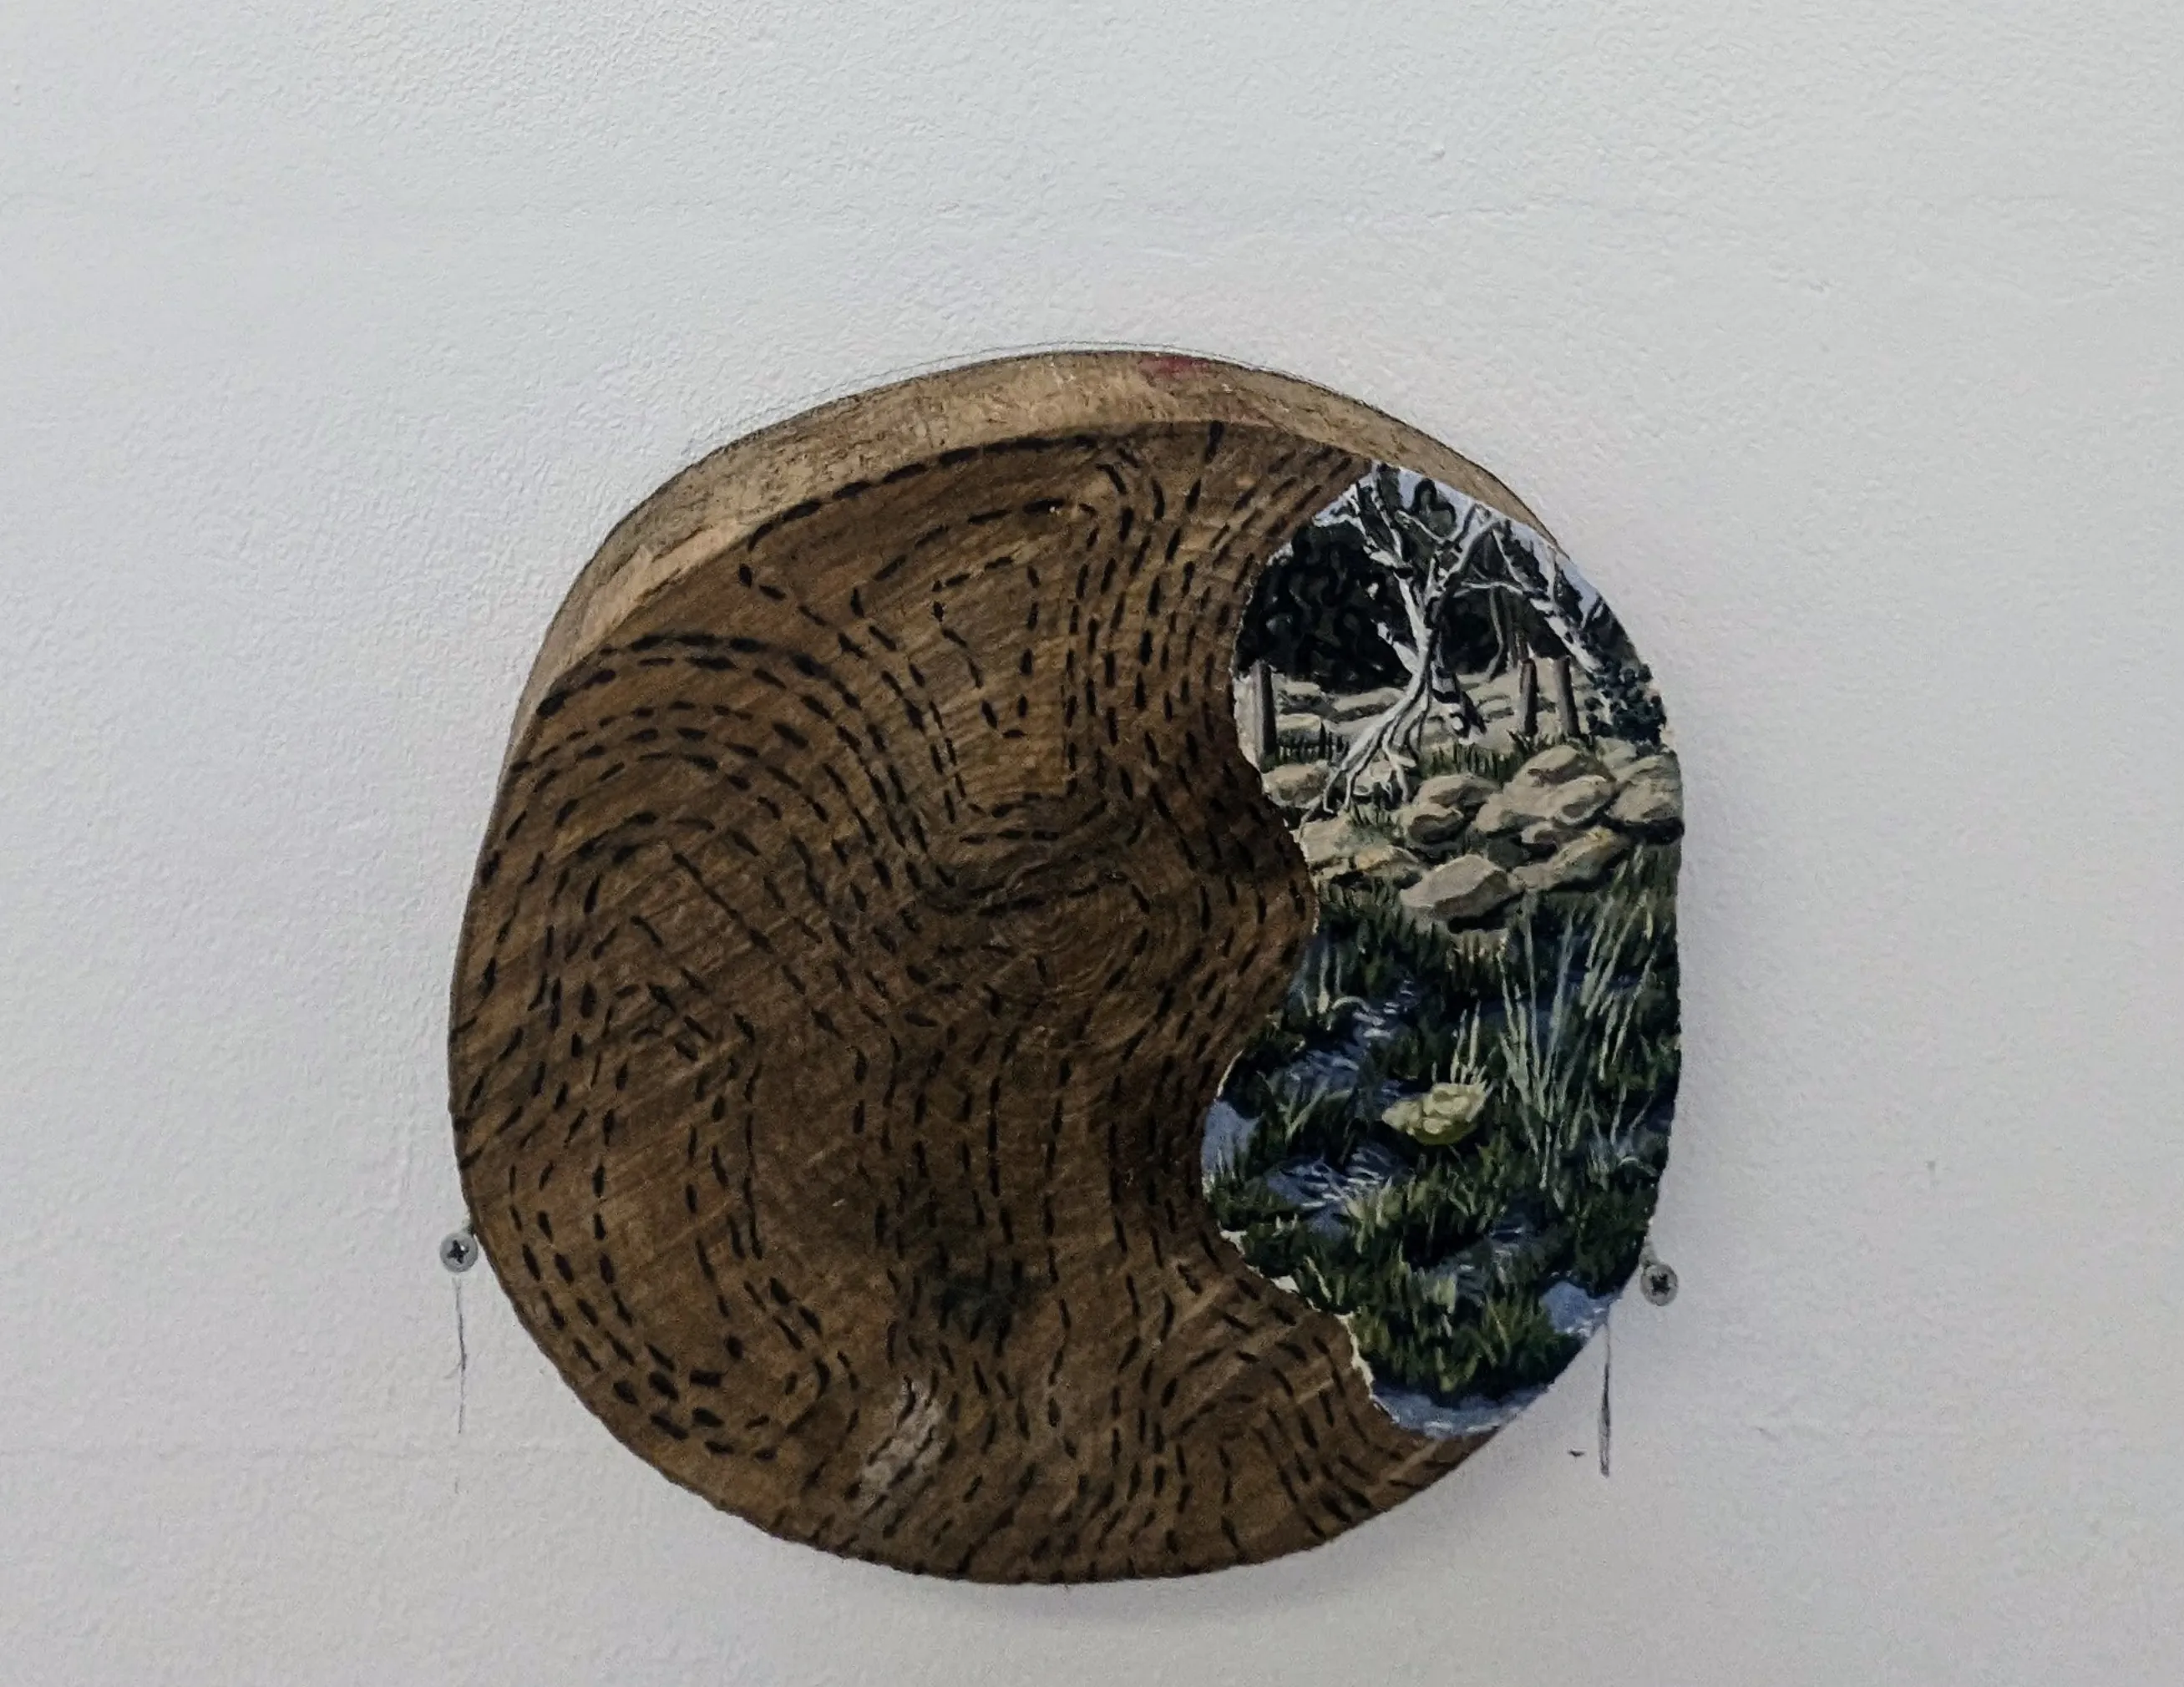
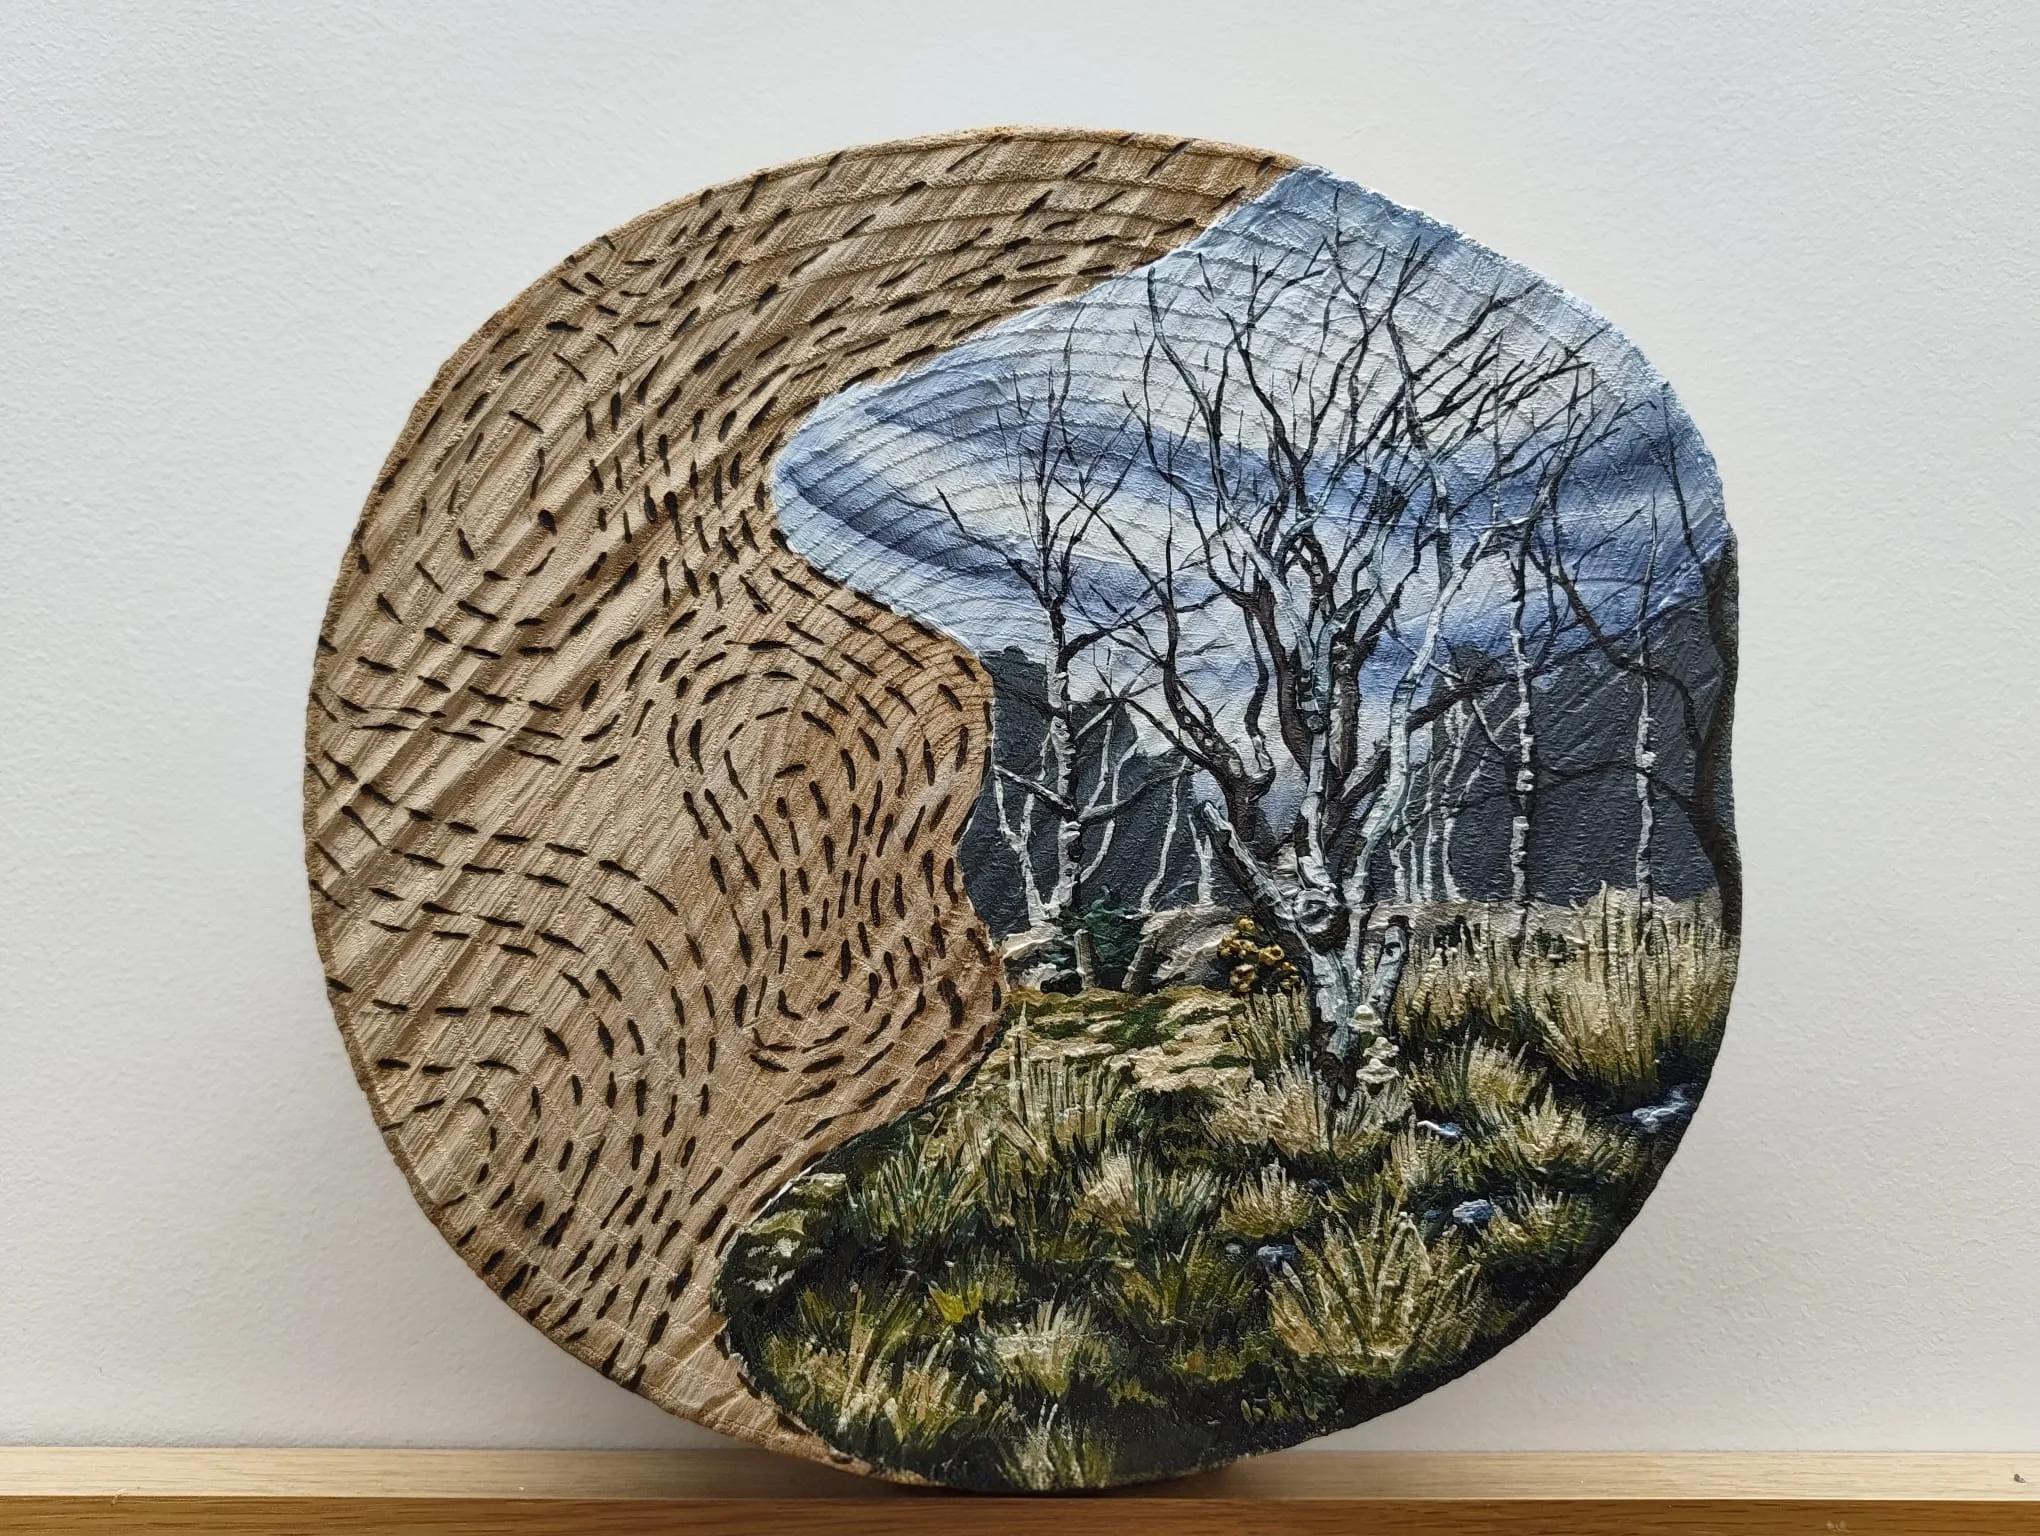
Document Topography exhibition and add new pieces
- Add Topography install photos and Facebook link to exhibition page
- Add four new artworks: canopy painting + three burnt/carved wood discs
- Replace Bridge and Bog Perspective with better straight-on photos
- Remove now-past "Exhibition This Friday" modal and badge
- Add top nav linking homepage and exhibition page
- Set page title to "Sorcha Hamilton"
- Ignore local scratch dirs; untrack .DS_Store

diff --git a/index.html b/index.html
@@ -3,7 +3,7 @@
 <head>
     <meta charset="UTF-8">
     <meta name="viewport" content="width=device-width, initial-scale=1.0">
-    <title>Art Gallery</title>
+    <title>Sorcha Hamilton</title>
     <style>
         * {
             margin: 0;
@@ -34,132 +34,31 @@
     margin-bottom: 2rem;  /* Adds space after each paragraph */
 }
 
-        .poster-modal {
-            position: fixed;
-            inset: 0;
-            background: rgba(20, 20, 20, 0.7);
-            backdrop-filter: blur(8px);
-            -webkit-backdrop-filter: blur(8px);
+        .topnav {
+            max-width: 1000px;
+            margin: 0 auto;
+            padding: 2rem 2rem 0;
             display: flex;
-            align-items: center;
-            justify-content: center;
-            z-index: 1000;
-            padding: 2rem;
-            opacity: 0;
-            pointer-events: none;
-            transition: opacity 0.5s ease;
+            justify-content: space-between;
+            align-items: baseline;
+            gap: 1rem;
         }
 
-        .poster-modal.open {
-            opacity: 1;
-            pointer-events: auto;
-        }
-
-        .poster-modal-content {
-            position: relative;
-            max-width: 520px;
-            width: 100%;
-            transform: scale(0.92) translateY(20px);
-            transition: transform 0.6s cubic-bezier(0.2, 0.8, 0.2, 1);
-        }
-
-        .poster-modal.open .poster-modal-content {
-            transform: scale(1) translateY(0);
-        }
-
-        .poster-modal-image-link {
-            display: block;
-            cursor: pointer;
-            transition: transform 0.3s ease, box-shadow 0.3s ease;
-        }
-
-        .poster-modal-image-link:hover {
-            transform: translateY(-3px);
-        }
-
-        .poster-modal-image {
-            width: 100%;
-            height: auto;
-            display: block;
-            box-shadow: 0 30px 80px rgba(0, 0, 0, 0.5);
-            border-radius: 2px;
-            transition: box-shadow 0.3s ease;
-        }
-
-        .poster-modal-image-link:hover .poster-modal-image {
-            box-shadow: 0 36px 90px rgba(0, 0, 0, 0.6);
-        }
-
-        .poster-modal-close {
-            position: absolute;
-            top: -2.5rem;
-            right: 0;
-            background: none;
-            border: none;
-            color: rgba(255, 255, 255, 0.85);
-            font-size: 1.5rem;
-            cursor: pointer;
-            padding: 0.25rem 0.75rem;
-            font-family: inherit;
-            letter-spacing: 0.05em;
+        .topnav a {
+            color: #666;
+            text-decoration: none;
+            font-size: 0.9rem;
+            letter-spacing: 0.02em;
             transition: color 0.2s ease;
         }
 
-        .poster-modal-close:hover {
-            color: #fff;
+        .topnav a:hover {
+            color: #000;
         }
 
-        .exhibition-badge {
-            position: fixed;
-            bottom: 1.75rem;
-            right: 1.75rem;
-            background: #f5efe4;
-            color: #2a2520;
-            text-decoration: none;
-            padding: 0.7rem 1.2rem 0.75rem;
-            border: 1px solid rgba(42, 37, 32, 0.2);
-            border-radius: 2px;
-            font-family: Georgia, 'Times New Roman', serif;
-            font-style: italic;
-            font-size: 1rem;
-            cursor: pointer;
-            box-shadow: 0 6px 20px rgba(42, 37, 32, 0.12);
-            z-index: 100;
-            opacity: 0;
-            transform: translateY(20px) rotate(-2.5deg);
-            transition: opacity 0.6s ease, transform 0.4s cubic-bezier(0.2, 0.8, 0.2, 1), box-shadow 0.3s ease;
-            display: inline-flex;
-            align-items: baseline;
-            gap: 0.5rem;
-        }
-
-        .exhibition-badge.visible {
-            opacity: 1;
-            transform: translateY(0) rotate(-2.5deg);
-        }
-
-        .exhibition-badge:hover {
-            transform: translateY(-3px) rotate(0deg);
-            box-shadow: 0 14px 30px rgba(42, 37, 32, 0.2);
-        }
-
-        .exhibition-badge::before {
-            content: '—';
-            font-style: normal;
-            opacity: 0.55;
-        }
-
-        @media (max-width: 768px) {
-            .poster-modal-close {
-                top: -2.25rem;
-                font-size: 1.25rem;
-            }
-            .exhibition-badge {
-                bottom: 1rem;
-                right: 1rem;
-                font-size: 0.9rem;
-                padding: 0.6rem 1rem;
-            }
+        .topnav-brand {
+            font-weight: 500;
+            color: #333;
         }
 
         .artwork-container {
@@ -236,6 +135,11 @@
     </style>
 </head>
 <body>
+    <nav class="topnav">
+        <a href="index.html" class="topnav-brand">Sorcha Hamilton</a>
+        <a href="exhibitions/topography.html">Topography — Exhibition</a>
+    </nav>
+
     <section class="intro">
         <h1>Sorcha Hamilton's Portfolio</h1>
         <p>Sorcha Hamilton is an artist based in County Galway, Ireland. Much of her work experiments with solitary scenes rarely involved figures to create a more isolating experience.</p>
@@ -289,6 +193,46 @@
 
 
 
+        <article class="artwork">
+            <div class="artwork-details">
+                <h2 class="artwork-title">Untitled</h2>
+                <p class="artwork-description">Oil on wood</p>
+            </div>
+            <img src="images/canopy.webp" alt="Untitled — looking up through a tree canopy, oil on wood" class="artwork-image" loading="lazy">
+        </article>
+
+
+
+        <article class="artwork">
+            <div class="artwork-details">
+                <h2 class="artwork-title">Untitled</h2>
+                <p class="artwork-description">Burnt wood</p>
+            </div>
+            <img src="images/topograph-1.webp" alt="Untitled — topographic lines burnt into a wood disc" class="artwork-image" loading="lazy">
+        </article>
+
+
+
+        <article class="artwork">
+            <div class="artwork-details">
+                <h2 class="artwork-title">Untitled</h2>
+                <p class="artwork-description">Carved wood</p>
+            </div>
+            <img src="images/topograph-2.webp" alt="Untitled — topographic lines carved into a darkened wood disc" class="artwork-image" loading="lazy">
+        </article>
+
+
+
+        <article class="artwork">
+            <div class="artwork-details">
+                <h2 class="artwork-title">Untitled</h2>
+                <p class="artwork-description">Burnt wood</p>
+            </div>
+            <img src="images/topograph-3.webp" alt="Untitled — topographic lines burnt into a bark-edged wood slice" class="artwork-image" loading="lazy">
+        </article>
+
+
+
 
 
         <article class="artwork">
@@ -299,19 +243,6 @@
             <img src="images/wide.webp" alt="Ceramic Prints — ceramics and soil" class="artwork-image" loading="lazy">
         </article>
     </div>
-
-    <div class="poster-modal" id="posterModal" role="dialog" aria-modal="true" aria-label="Upcoming exhibition: Topography">
-        <div class="poster-modal-content">
-            <button class="poster-modal-close" id="posterModalClose" aria-label="Close">Close ✕</button>
-            <a href="exhibitions/topography.html" class="poster-modal-image-link" aria-label="View exhibition details">
-                <img src="images/topography-poster.webp" alt="Topography by Sorcha Hamilton — Friday 1st of May, Ballinasloe Library" class="poster-modal-image">
-            </a>
-        </div>
-    </div>
-
-    <a href="exhibitions/topography.html" class="exhibition-badge" id="exhibitionBadge" aria-label="View Topography exhibition page">
-        Exhibition This Friday
-    </a>
 
     <script>
         const observer = new IntersectionObserver((entries) => {
@@ -326,27 +257,6 @@
 
         document.querySelectorAll('.artwork').forEach(artwork => {
             observer.observe(artwork);
-        });
-
-        const posterModal = document.getElementById('posterModal');
-        const posterClose = document.getElementById('posterModalClose');
-        const exhibitionBadge = document.getElementById('exhibitionBadge');
-
-        const openPoster = () => posterModal.classList.add('open');
-        const closePoster = () => posterModal.classList.remove('open');
-
-        // Open automatically on every visit
-        setTimeout(openPoster, 600);
-
-        // Reveal the badge after a short delay so it doesn't compete with the modal
-        setTimeout(() => exhibitionBadge.classList.add('visible'), 1400);
-
-        posterClose.addEventListener('click', closePoster);
-        posterModal.addEventListener('click', (e) => {
-            if (e.target === posterModal) closePoster();
-        });
-        document.addEventListener('keydown', (e) => {
-            if (e.key === 'Escape') closePoster();
         });
     </script>
 </body>

diff --git a/exhibitions/topography.html b/exhibitions/topography.html
@@ -188,6 +188,7 @@
         <div class="meta">
             <div class="meta-line">Friday 1<sup>st</sup> May 2026</div>
             <div class="meta-line"><a href="https://maps.app.goo.gl/E6MhzCzUdmdTq9AL8" target="_blank" rel="noopener">Ballinasloe Library, Co. Galway</a></div>
+            <div class="meta-line"><a href="https://www.facebook.com/story.php?story_fbid=1390777089755941&amp;id=100064709887423" target="_blank" rel="noopener">See the exhibition on Facebook</a></div>
         </div>
     </header>
 
@@ -197,8 +198,10 @@
 
     <section class="documentation">
         <h2>Documentation</h2>
-        <div class="documentation-placeholder">
-            Photographs from the exhibition will appear here following the opening on 1<sup>st</sup> May.
+        <div class="photo-grid">
+            <img src="../images/topography-install-1.webp" alt="Topography exhibition installed at Ballinasloe Library" loading="lazy">
+            <img src="../images/topography-install-2.webp" alt="Painted wood disc on an easel at the Topography exhibition" loading="lazy">
+            <img src="../images/topography-install-3.webp" alt="Painted wood disc on an easel at the Topography exhibition" loading="lazy">
         </div>
     </section>
 